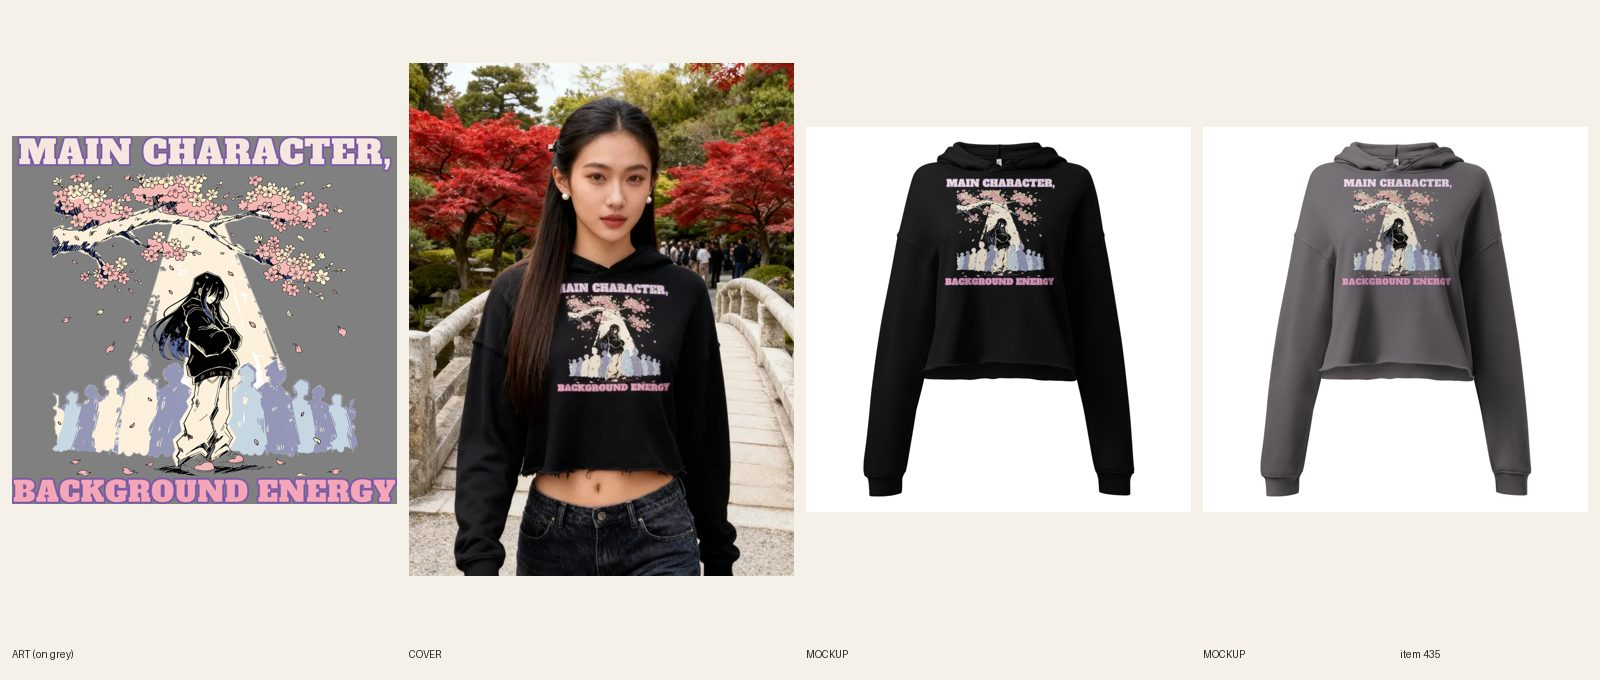
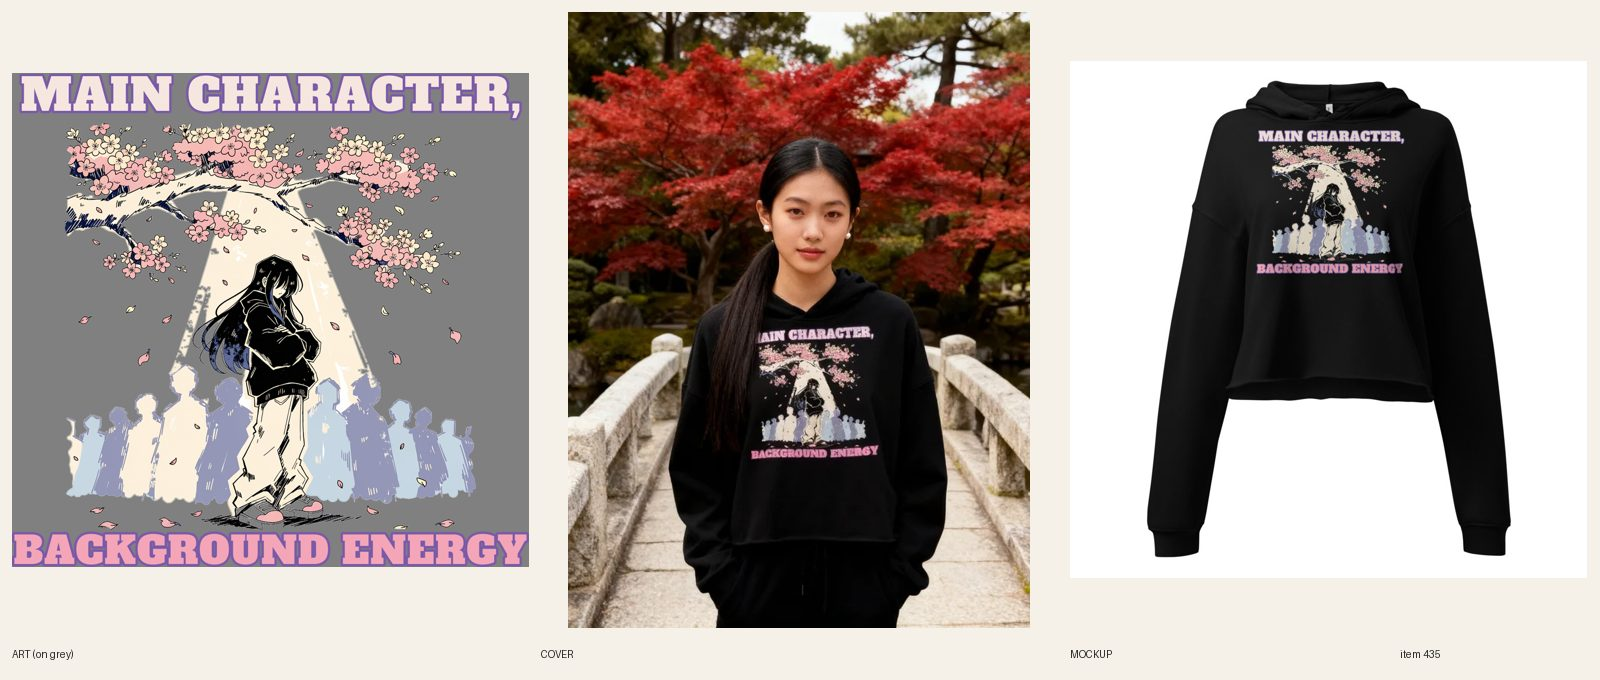
[B] review 435 cover redo (R6.9 extra attempt)

diff --git a/docs/intake-log.md b/docs/intake-log.md
@@ -1,4 +1,5 @@
 RUNNING lane B since 2026-10-17 21:59 UTC
+2026-10-17 22:02 UTC — [B] REVIEW #435 cover redo (hair still over the M; flagged to director).
 2026-10-17 22:01 UTC — [B] Price fixes: compare-at removed (products created after 2026-10-15) on 8 camo products: ducks-in-a-row, doe-not-disturb, i-saw-you-move, antler-envy, camp-security-bear, possum-playing-dead hoodies; call-me-after-duck-season, here-for-the-sunrise sweatshirts. Prices unchanged.
 RUNNING lane C since 2026-10-17 21:54 UTC
 2026-10-17 21:48 UTC — [H] Helper run: Telegram inbox empty (getUpdates returned nothing, nothing to consume; no pause or resume). Audit (395 live products): 10 ERRORs, 8 price ./. (builders' job, left alone) and 2 keyword collisions on 'turkey hoodie' (sent to docs/inbox.md for the director; creative call). No scripted meta, SEO or collection ERRORs to fix, so no product edits. Category check (one-time rule, still checking): 0 products without a category. Site freshness: womens-christmas-seasonally-overbooked-crewneck-sweatshirt, mens-grill-wizard-zip-hoodie, womens-equestrian-horse-girl-broke-on-purpose-hoodie all 200. Stuck check: none (lane A last commit 21:08 UTC, lane C 21:41, lane E 21:28; the BUILDING items all sit under lanes committing within the hour; lane A's RUNNING line from 19:29 is over 2 hours old but the lane is committing, same as earlier runs, so no alert). Daily summary already sent today (12:43), not due. Lock released.

diff --git a/docs/pipeline/435-anime-cropped-hoodie-petal-pusher.md b/docs/pipeline/435-anime-cropped-hoodie-petal-pusher.md
@@ -1,4 +1,4 @@
-status: REDO
+status: REVIEW
 lane: B
 type: new
 id: 435
@@ -34,3 +34,4 @@ kd: 20
 - 2026-10-17 21:19 UTC director: REDO (cover only, no new art).
   1. R6.9: cover fails the overlap check: her hair covers the M of MAIN (reads 'AIN CHARACTER,'). One more cover attempt: Printful Black mockup as --design, hair behind the shoulders, hands empty, read every word before saving.
   2. Art, copy and title pass (the 20:25 rewrite line is on the print); only the cover changes.
+- 2026-10-17 22:02 UTC builder [B]: REDO cover (R6.9 extra attempt, Printful Black mockup as --design, hair 'behind shoulders', hands in pocket, 1 image ~$0.06). Hair still lands in front of the M of MAIN (low ponytail falls over the left chest; reads 'AIN CHARACTER,'). Garment, hood, scene and every other word are clean. Attempts spent, kept as is; director please decide (composite or accept). Art/copy unchanged.
